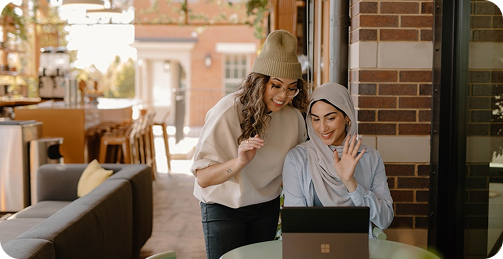
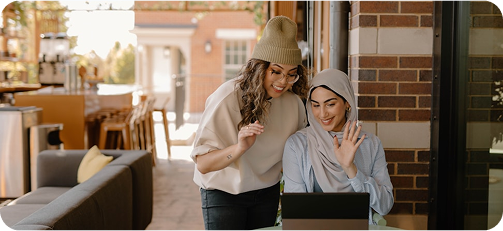
3 comit

diff --git a/about.html b/about.html
@@ -164,10 +164,7 @@
                     </a>
         
                     <!-- Toggle for Offcanvas -->
-                    <button class="navbar-toggler" type="button" data-bs-toggle="offcanvas" data-bs-target="#mobileMenu"
-                        aria-controls="mobileMenu">
-                        <span class="navbar-toggler-icon"></span>
-                    </button>
+                    
         
                     <!-- Center: Menu (Visible on large screens) -->
                     <div class="collapse navbar-collapse justify-content-center d-none d-lg-flex">
@@ -232,13 +229,17 @@
                     <div class="d-flex">
                         <a href="#" class="btn btn-consult">Free Consultation</a>
                     </div>
+                    <button class="navbar-toggler" type="button" data-bs-toggle="offcanvas" data-bs-target="#mobileMenu"
+                        aria-controls="mobileMenu">
+                        <span class="navbar-toggler-icon"></span>
+                    </button>
                 </div>
             </nav>
         </div>
         
         <div class="offcanvas offcanvas-start" tabindex="-1" id="mobileMenu" aria-labelledby="mobileMenuLabel">
             <div class="offcanvas-header">
-                <h5 class="offcanvas-title" id="mobileMenuLabel">Menu</h5>
+                <h4 class="offcanvas-title fs-4 text-white" id="mobileMenuLabel">BuzyPro</h4>
                 <button type="button" class="btn-close" data-bs-dismiss="offcanvas" aria-label="Close"></button>
             </div>
             <div class="offcanvas-body">
@@ -367,23 +368,24 @@
         <div class="container my-4">
             <div class="row justify-content-center align-items-center">
                 <div class="col-md-4">
-                    <img src="./Assets/Rectangle 4.png" alt="" class="img-fluid">
+                    <img src="./Assets/Rectangle 4.png" alt="" class="cus-img">
                 </div>
                 <div class="col-md-7">
                     <div class="mission-cont">
                         <p class="card-head">
                             Our Mission
                         </p>
-                        <p class="fs-4">
-                            At BuzyPro, were on a mission to simplify business compliance for
+                        <p class="fs-6 fs-4">
+                            At BuzyPro, we're on a mission to simplify business compliance for
                             entrepreneurs across India. We believe that administrative
-                            challenges shouldnt stand in the way of your business growth.
+                            challenges shouldn't stand in the way of your business growth.
                         </p>
-                        <p class="fs-4 mb-4">
+                        <p class="fs-6 fs-4 mb-4">
                             With 15+ years of expertise and 1000+ satisfied businesses, we
                             provide hassle-free company registration, tax filing, and
-                            compliance solutions that save you time and money
+                            compliance solutions that save you time and money.
                         </p>
+                        
                         <div class="d-flex flex-wrap gap-3">
                             <span class="d-flex align-items-center bg-light text-dark px-3 py-2 rounded-5">
                                 <i class="bi bi-check2-circle text-success me-2"></i> Transparency 
@@ -693,9 +695,9 @@
             </div>
             <div class="row gap-4">
                 <div class="col-md-6 col-lg-6 col-12 mt-5">
-                    <img src="./Assets/see-abt.png" alt="" class="img-fluid">
+                    <img src="./Assets/see-abt.png" alt="" class="cus-img">
                 </div>
-                <div class="col-md-5 col-lg-5 col-12 mt-5">
+                <div class="col-md-5 col-lg-5 col-12 mt-lg-5">
                     <p class="fs-3 fw-bold mb-0">
                         Your Business Compliance Journey, Simplified
                     </p>
@@ -1348,7 +1350,7 @@
                     </p>
                     <form class="d-flex flex-column flex-sm-row bg-white rounded-2 p-1">
                         <input type="email" class="form-control" placeholder="Enter your Email ID">
-                        <button class="btn btn-primary x-100">Send</button>
+                        <button class="btn btn-primary">Send</button>
                     </form>
                 </div>
     
@@ -1410,22 +1412,22 @@
                     <div class="d-flex gap-3">
                         <a href="#"
                             class="d-inline-flex align-items-center justify-content-center rounded-circle bg-white text-primary"
-                            style="width: 40px; height: 40px;">
+                            style="width: 35px; height: 35px;">
                             <i class="bi bi-linkedin"></i>
                         </a>
                         <a href="#"
                             class="d-inline-flex align-items-center justify-content-center rounded-circle bg-white text-primary"
-                            style="width: 40px; height: 40px;">
+                            style="width: 35px; height: 35px;">
                             <i class="bi bi-facebook"></i>
                         </a>
                         <a href="#"
                             class="d-inline-flex align-items-center justify-content-center rounded-circle bg-white text-primary"
-                            style="width: 40px; height: 40px;">
+                            style="width: 35px; height: 35px;">
                             <i class="bi bi-twitter"></i>
                         </a>
                         <a href="#"
                             class="d-inline-flex align-items-center justify-content-center rounded-circle bg-white text-primary"
-                            style="width: 40px; height: 40px;">
+                            style="width: 35px; height: 35px;">
                             <i class="bi bi-envelope-fill"></i>
                         </a>
                     </div>
@@ -1433,7 +1435,7 @@
                 </div>
             </div>
     
-            <div class="d-flex flex-column flex-md-row justify-content-between text-center text-md-start mt-lg-5">
+            <div class="d-flex flex-column flex-md-row justify-content-between text-center text-md-start mt-lg-5 mt-3">
                 <p class="mb-0 text-white small">© 2025 BuzyPro. All Rights Reserved.</p>
                 <ul class="list-inline small mb-0">
                     <li class="list-inline-item"><a href="#" class="text-white text-decoration-none  fs-6 fw-lighter">Terms

diff --git a/index.html b/index.html
@@ -39,7 +39,7 @@
 <body>
     <div class="banner">
         <div> 
-            <nav class="navbar navbar-expand-lg navbar-light text-white">
+            <nav class="navbar navbar-expand-lg navbar-light text-white" id="mainNavbar">
                 <div class="container">
                     <!-- Left: Logo -->
                     <a class="navbar-brand fw-bold text-white fs-4 fw-bold" href="#">
@@ -486,12 +486,12 @@
             
                 <!-- Middle Image -->
                 <div class="col-12 col-md-6 col-lg-4 mb-4">
-                    <img src="./Assets/Rectangle 4.png" alt="" class="img-fluid w-100 rounded">
+                    <img src="./Assets/Rectangle 4.png" alt="" class="cus-img rounded">
                 </div>
             
                 <!-- Right Column: Info and CTA -->
                 <div class="col-12 col-md-6 col-lg-3">
-                    <img src="./Assets/Rectangle 5.png" alt="" class="img-fluid w-100 rounded mb-3">
+                    <img src="./Assets/Rectangle 5.png" alt="" class="cus-img rounded mb-3">
                     <p class="pt-3">
                         From ideation to ongoing compliance,
                         we provide comprehensive support
@@ -1207,19 +1207,19 @@
                     </p>
                     <div class="d-flex gap-3">
                         <a href="#" class="d-inline-flex align-items-center justify-content-center rounded-circle bg-white text-primary"
-                            style="width: 40px; height: 40px;">
+                            style="width: 35px; height: 35px;">
                             <i class="bi bi-linkedin"></i>
                         </a>
                         <a href="#" class="d-inline-flex align-items-center justify-content-center rounded-circle bg-white text-primary"
-                            style="width: 40px; height: 40px;">
+                            style="width: 35px; height: 35px;">
                             <i class="bi bi-facebook"></i>
                         </a>
                         <a href="#" class="d-inline-flex align-items-center justify-content-center rounded-circle bg-white text-primary"
-                            style="width: 40px; height: 40px;">
+                            style="width: 35px; height: 35px;">
                             <i class="bi bi-twitter"></i>
                         </a>
                         <a href="#" class="d-inline-flex align-items-center justify-content-center rounded-circle bg-white text-primary"
-                            style="width: 40px; height: 40px;">
+                            style="width: 35px; height: 35px;">
                             <i class="bi bi-envelope-fill"></i>
                         </a>
                     </div>
@@ -1227,7 +1227,7 @@
                 </div>
             </div>
     
-            <div class="d-flex flex-column flex-md-row justify-content-between text-center text-md-start mt-lg-5">
+            <div class="d-flex flex-column flex-md-row justify-content-between text-center text-md-start mt-lg-5 mt-3">
                 <p class="mb-0 text-white small">© 2025 BuzyPro. All Rights Reserved.</p>
                 <ul class="list-inline small mb-0">
                     <li class="list-inline-item"><a href="#" class="text-white text-decoration-none  fs-6 fw-lighter">Terms & Conditions</a>

diff --git a/style.css b/style.css
@@ -7,10 +7,7 @@
     display: none;
     margin-left: 15px;
 }
-.container {
-    width: 1200px;
-    /* BAD */
-}
+
 .dropdown-toggle::after{
     display: none;
 }
@@ -31,14 +28,7 @@
     box-shadow: 0 2px 6px rgba(207, 206, 206, 0.2);
     padding: 0.5rem 1rem;
 }
-img.img-fluid {
-    max-width: 100%;
-    height: auto;
-    object-fit: contain;
-    /* or cover if you want to fill */
-    display: block; }
-    
-body.scrolled-padding {
+.scrolled-padding {
     padding-top: 70px;
 }
 .banner
@@ -309,11 +299,31 @@ body.scrolled-padding {
         background-position: center;
         height: 70vh;
     }
+    .navbar-brand
+    {
+        margin-right: 2px;
+    }
+    .cus-img
+    {
+        max-width: 100%;
+        max-height: 250px;
+    }
+    .fs-4
+    {
+        font-size: 1.2rem !important;
+    }
+    .year-badge
+    {
+        top: -3px !important;
+    }
+    .hero-subtitle
+    {
+        font-size: 18px !important;
+    }
     .abt-ban
     {
         width: 100%;
-        height: 135
-        vh;
+        height: 100vh;
     }
     .ban-content
     {
